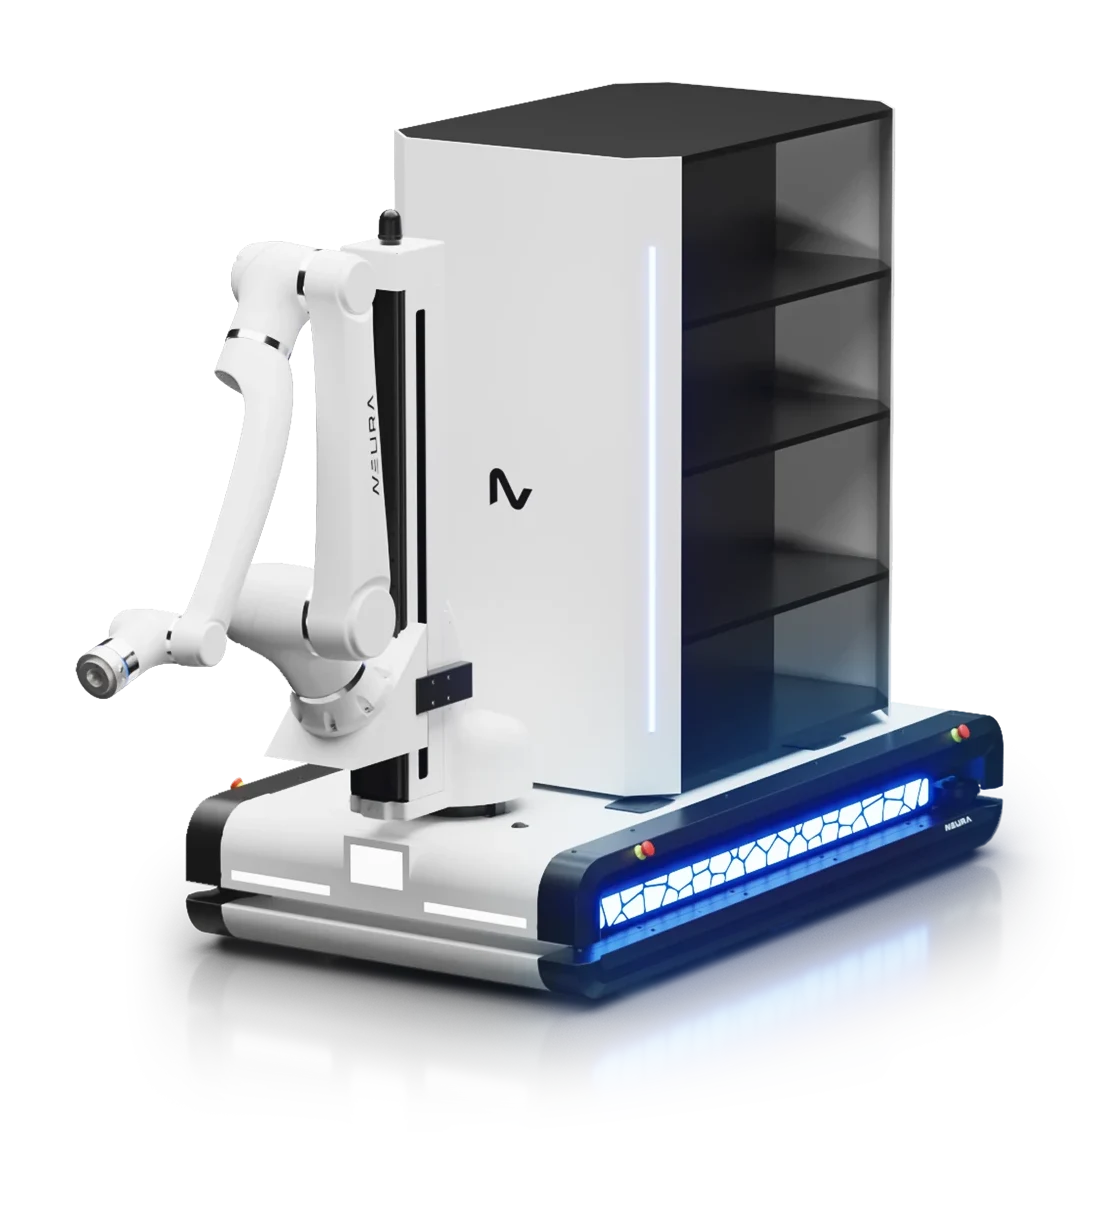
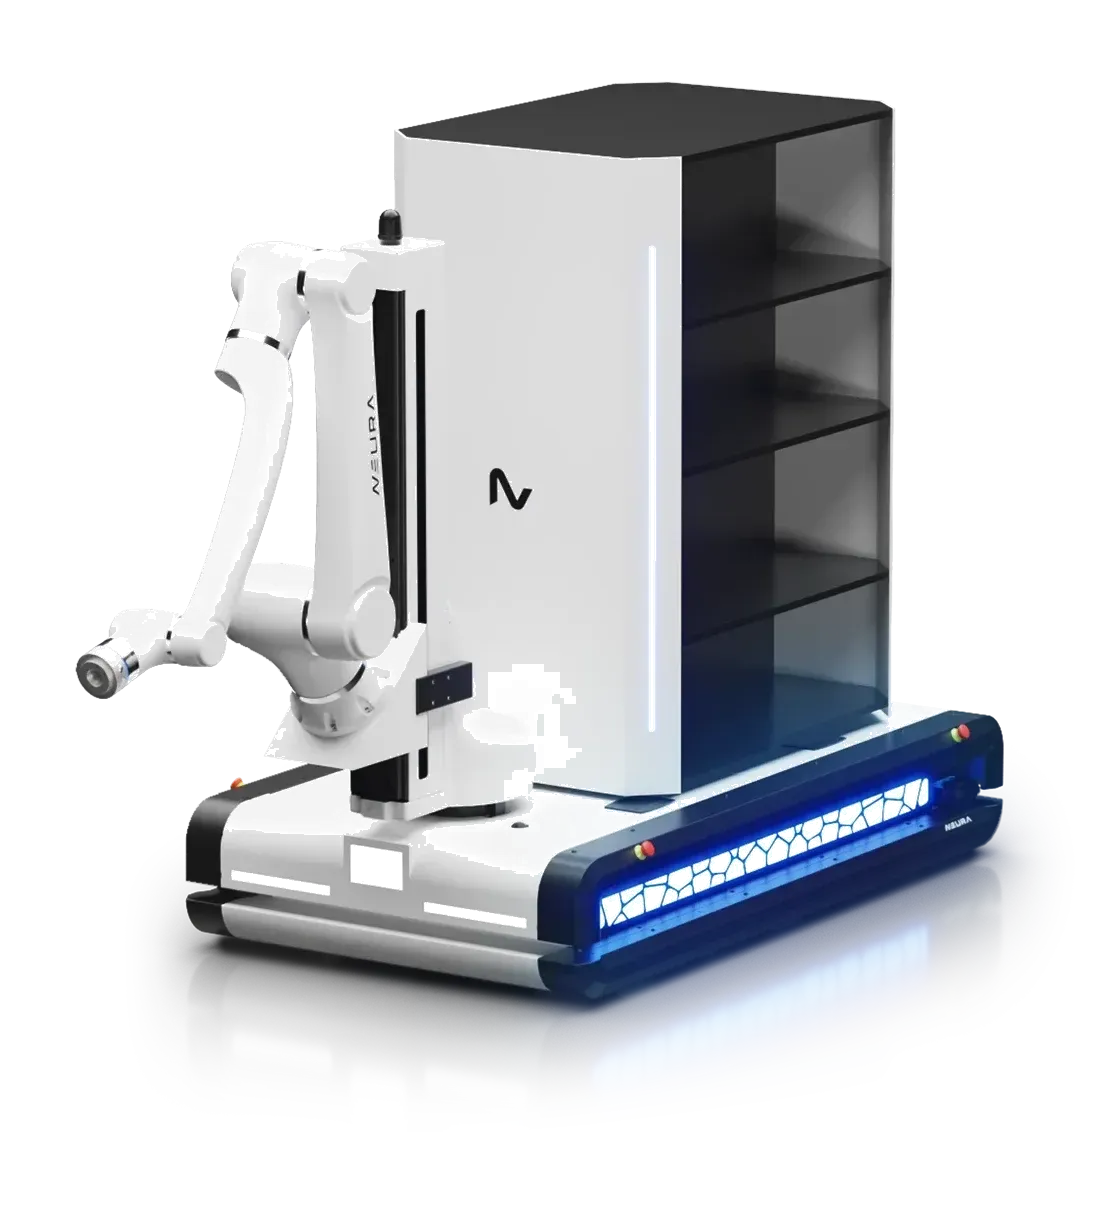
fix: immagini AMR senza bordo bianco, Youibot L300 e EP XP15
Flood-fill trasparenza, mix-blend su card, juno-plus e neura side corretti, L300 gallery, XP15 PNG.

Changed region(s): [[0.4296, 0.5486, 0.5217, 0.6705]]

diff --git a/prodotti/amr-l300.html b/prodotti/amr-l300.html
@@ -11,7 +11,7 @@
   <meta property="og:title" content="Youibot L300 — Robot AMR YOUIBOT | Abra Robotics">
   <meta property="og:description" content="Youibot L300: Latent AMR · 300 kg · lift 60 mm. da 29.988,00 € IVA esclusa. Va sotto carrelli e scaffali, solleva e trasporta in autonomia. Laser SLAM ±5 mm">
   <meta property="og:url" content="https://abrarobotics.com/prodotti/amr-l300.html">
-  <meta property="og:image" content="https://abrarobotics.com/images/manifattura/amr/youibot-l300.png">
+  <meta property="og:image" content="https://abrarobotics.com/images/manifattura/amr/youibot-l300-gallery.png">
   <meta property="og:site_name" content="Abra Robotics">
   <meta property="og:locale" content="it_IT">
   <meta property="product:price:amount" content="29988.00">
@@ -19,7 +19,7 @@
   <meta name="twitter:card" content="summary_large_image">
   <meta name="twitter:title" content="Youibot L300 — Robot AMR YOUIBOT | Abra Robotics">
   <meta name="twitter:description" content="Youibot L300: Latent AMR · 300 kg · lift 60 mm. da 29.988,00 € IVA esclusa. Va sotto carrelli e scaffali, solleva e trasporta in autonomia. Laser SLAM ±5 mm">
-  <meta name="twitter:image" content="https://abrarobotics.com/images/manifattura/amr/youibot-l300.png">
+  <meta name="twitter:image" content="https://abrarobotics.com/images/manifattura/amr/youibot-l300-gallery.png">
   <link href="https://api.fontshare.com/v2/css?f[]=satoshi@400,500,700,900&display=swap" rel="stylesheet">
   <link rel="stylesheet" href="../style.css">
   <link rel="stylesheet" href="product.css">
@@ -28,7 +28,7 @@
   "name": "Youibot L300",
   "sku": "amr-l300",
   "mpn": "amr-l300",
-  "image": ["https://abrarobotics.com/images/manifattura/amr/youibot-l300.png"],
+  "image": ["https://abrarobotics.com/images/manifattura/amr/youibot-l300-gallery.png"],
   "description": "Youibot L300: Latent AMR · 300 kg · lift 60 mm. da 29.988,00 € IVA esclusa. Va sotto carrelli e scaffali, solleva e trasporta in autonomia. Laser SLAM ±5 mm",
   "brand": {"@type": "Brand", "name": "YOUIBOT"},
   "category": "Business & Industrial > Material Handling",
@@ -135,8 +135,8 @@
       </nav>
       <div class="product-hero-grid">
         <div class="gallery">
-          <div class="gallery-main amr-gallery-main" style="background:linear-gradient(135deg,#ececef,#d8d8de);">
-            <img id="gallery-main-img" src="../images/manifattura/amr/youibot-l300.png" alt="Youibot L300" style="max-width:100%;max-height:480px;width:100%;object-fit:contain;padding:24px;filter:drop-shadow(0 12px 20px rgba(0,0,0,.12));">
+          <div class="gallery-main amr-gallery-main" style="background:linear-gradient(145deg,#e8e8ec,#d6d6dc);">
+            <img id="gallery-main-img" src="../images/manifattura/amr/youibot-l300-gallery.png" alt="Youibot L300" style="max-width:100%;max-height:480px;width:100%;object-fit:contain;padding:24px;filter:drop-shadow(0 12px 20px rgba(0,0,0,.12));mix-blend-mode:multiply;">
           </div>
         </div>
         <div class="product-info">

diff --git a/prodotti/amr-xp15.html b/prodotti/amr-xp15.html
@@ -11,7 +11,7 @@
   <meta property="og:title" content="EP Equipment XP15 — Robot AMR EP Equipment | Abra Robotics">
   <meta property="og:description" content="EP Equipment XP15: Transpallet AMR · 1.500 kg. da 30.000,00 € IVA esclusa. Muletto elettrico autonomo con forche. LiDAR + camera, anche in modalità manuale">
   <meta property="og:url" content="https://abrarobotics.com/prodotti/amr-xp15.html">
-  <meta property="og:image" content="https://abrarobotics.com/images/manifattura/amr/ep-xp15.jpg">
+  <meta property="og:image" content="https://abrarobotics.com/images/manifattura/amr/ep-xp15.png">
   <meta property="og:site_name" content="Abra Robotics">
   <meta property="og:locale" content="it_IT">
   <meta property="product:price:amount" content="30000.00">
@@ -19,7 +19,7 @@
   <meta name="twitter:card" content="summary_large_image">
   <meta name="twitter:title" content="EP Equipment XP15 — Robot AMR EP Equipment | Abra Robotics">
   <meta name="twitter:description" content="EP Equipment XP15: Transpallet AMR · 1.500 kg. da 30.000,00 € IVA esclusa. Muletto elettrico autonomo con forche. LiDAR + camera, anche in modalità manuale">
-  <meta name="twitter:image" content="https://abrarobotics.com/images/manifattura/amr/ep-xp15.jpg">
+  <meta name="twitter:image" content="https://abrarobotics.com/images/manifattura/amr/ep-xp15.png">
   <link href="https://api.fontshare.com/v2/css?f[]=satoshi@400,500,700,900&display=swap" rel="stylesheet">
   <link rel="stylesheet" href="../style.css">
   <link rel="stylesheet" href="product.css">
@@ -28,7 +28,7 @@
   "name": "EP Equipment XP15",
   "sku": "amr-xp15",
   "mpn": "amr-xp15",
-  "image": ["https://abrarobotics.com/images/manifattura/amr/ep-xp15.jpg"],
+  "image": ["https://abrarobotics.com/images/manifattura/amr/ep-xp15.png"],
   "description": "EP Equipment XP15: Transpallet AMR · 1.500 kg. da 30.000,00 € IVA esclusa. Muletto elettrico autonomo con forche. LiDAR + camera, anche in modalità manuale",
   "brand": {"@type": "Brand", "name": "EP Equipment"},
   "category": "Business & Industrial > Material Handling",
@@ -135,8 +135,8 @@
       </nav>
       <div class="product-hero-grid">
         <div class="gallery">
-          <div class="gallery-main amr-gallery-main" style="background:linear-gradient(135deg,#ececef,#d8d8de);">
-            <img id="gallery-main-img" src="../images/manifattura/amr/ep-xp15.jpg" alt="EP Equipment XP15" style="max-width:100%;max-height:480px;width:100%;object-fit:contain;padding:24px;filter:drop-shadow(0 12px 20px rgba(0,0,0,.12));">
+          <div class="gallery-main amr-gallery-main" style="background:linear-gradient(145deg,#e8e8ec,#d6d6dc);">
+            <img id="gallery-main-img" src="../images/manifattura/amr/ep-xp15.png" alt="EP Equipment XP15" style="max-width:100%;max-height:480px;width:100%;object-fit:contain;padding:24px;filter:drop-shadow(0 12px 20px rgba(0,0,0,.12));mix-blend-mode:multiply;">
           </div>
         </div>
         <div class="product-info">

diff --git a/catalogo-amr.html b/catalogo-amr.html
@@ -27,16 +27,21 @@
     .cat-jump { display: flex; flex-wrap: wrap; gap: 10px; margin-bottom: 32px; }
     .cat-jump a { font-size: 0.85rem; padding: 8px 14px; border: 1px solid var(--gray-200); border-radius: 999px; text-decoration: none; color: var(--black); }
     
+    .robot-media.amr-media,
+    .cat-media.amr-media {
+      background: linear-gradient(145deg, #e8e8ec 0%, #d6d6dc 100%);
+    }
     .robot-media.amr-media img,
     .robot-media.amr-media video,
     .cat-media.amr-media img,
     .cat-media.amr-media video {
       width: 100%; height: 100%; object-fit: contain; padding: 20px;
       filter: drop-shadow(0 12px 16px rgba(0,0,0,0.14));
+      mix-blend-mode: multiply;
     }
     .robot-media.amr-media video,
-    .cat-media.amr-media video { padding: 12px; }
-    .cat-media.amr-media { aspect-ratio: 4/3; display: flex; align-items: center; justify-content: center; background: var(--gray-50); }
+    .cat-media.amr-media video { padding: 12px; mix-blend-mode: normal; }
+    .cat-media.amr-media { aspect-ratio: 4/3; display: flex; align-items: center; justify-content: center; }
 
   </style>
 </head>
@@ -95,7 +100,7 @@
           </div>
         </article>
         <article class="cat-card" id="l300" data-group="leggeri" data-name="youibot l300">
-          <div class="cat-media amr-media"><img src="images/manifattura/amr/youibot-l300.png" alt="Youibot L300" loading="lazy"></div>
+          <div class="cat-media amr-media"><img src="images/manifattura/amr/youibot-l300-gallery.png" alt="Youibot L300" loading="lazy"></div>
           <div class="cat-body">
             <p class="cat-family">Pesi leggeri · Latent</p>
             <h3>Youibot L300</h3>
@@ -248,7 +253,7 @@
       <p class="cat-group-desc">Transpallet AMR per sostituire movimenti manuali con forche.</p>
       <div class="cat-grid">
         <article class="cat-card" id="xp15" data-group="muletti" data-name="ep equipment xp15">
-          <div class="cat-media amr-media"><img src="images/manifattura/amr/ep-xp15.jpg" alt="EP Equipment XP15" loading="lazy"></div>
+          <div class="cat-media amr-media"><img src="images/manifattura/amr/ep-xp15.png" alt="EP Equipment XP15" loading="lazy"></div>
           <div class="cat-body">
             <p class="cat-family">Muletto · AMR</p>
             <h3>EP Equipment XP15</h3>

diff --git a/manifattura-logistica.html b/manifattura-logistica.html
@@ -1230,7 +1230,7 @@
       <div class="robot-grid cols-3">
 
         <article class="robot-card" id="amr-l300">
-          <div class="robot-media amr-media"><span class="robot-media-tag">Pesi leggeri · Latent</span><img src="images/manifattura/amr/youibot-l300.png" alt="Youibot L300" loading="lazy" onerror="this.closest('.robot-media').classList.add('no-img');"><div class="robot-media-placeholder"><strong>Youibot</strong><span>Youibot L300</span></div></div>
+          <div class="robot-media amr-media"><span class="robot-media-tag">Pesi leggeri · Latent</span><img src="images/manifattura/amr/youibot-l300-gallery.png" alt="Youibot L300" loading="lazy" onerror="this.closest('.robot-media').classList.add('no-img');"><div class="robot-media-placeholder"><strong>Youibot</strong><span>Youibot L300</span></div></div>
           <div class="robot-body">
             <div><h3>Youibot L300</h3><p class="robot-subtitle">Latent AMR · 300 kg · lift 60 mm</p></div>
             <p class="robot-blurb">Va sotto carrelli e scaffali, solleva e trasporta in autonomia. Laser SLAM ±5 mm, YOUIFLEET, CE.</p>
@@ -1330,7 +1330,7 @@
           </div>
         </article>
         <article class="robot-card" id="amr-xp15">
-          <div class="robot-media amr-media"><span class="robot-media-tag">Muletto · AMR</span><img src="images/manifattura/amr/ep-xp15.jpg" alt="EP Equipment XP15" loading="lazy" onerror="this.closest('.robot-media').classList.add('no-img');"><div class="robot-media-placeholder"><strong>EP</strong><span>EP Equipment XP15</span></div></div>
+          <div class="robot-media amr-media"><span class="robot-media-tag">Muletto · AMR</span><img src="images/manifattura/amr/ep-xp15.png" alt="EP Equipment XP15" loading="lazy" onerror="this.closest('.robot-media').classList.add('no-img');"><div class="robot-media-placeholder"><strong>EP</strong><span>EP Equipment XP15</span></div></div>
           <div class="robot-body">
             <div><h3>EP Equipment XP15</h3><p class="robot-subtitle">Transpallet AMR · 1.500 kg</p></div>
             <p class="robot-blurb">Muletto elettrico autonomo con forche. LiDAR + camera, anche in modalità manuale.</p>

diff --git a/prodotti/amr-mir1350-base.html b/prodotti/amr-mir1350-base.html
@@ -135,8 +135,8 @@
       </nav>
       <div class="product-hero-grid">
         <div class="gallery">
-          <div class="gallery-main amr-gallery-main" style="background:linear-gradient(135deg,#ececef,#d8d8de);">
-            <video src="../images/manifattura/amr/mir1350-hero.mp4" poster="../images/manifattura/amr/mir1350-hero.png" autoplay loop muted playsinline style="max-width:100%;max-height:480px;width:100%;object-fit:contain;padding:24px;filter:drop-shadow(0 12px 20px rgba(0,0,0,.12));"></video>
+          <div class="gallery-main amr-gallery-main" style="background:linear-gradient(145deg,#e8e8ec,#d6d6dc);">
+            <video src="../images/manifattura/amr/mir1350-hero.mp4" poster="../images/manifattura/amr/mir1350-hero.png" autoplay loop muted playsinline style="max-width:100%;max-height:480px;width:100%;object-fit:contain;padding:24px;filter:drop-shadow(0 12px 20px rgba(0,0,0,.12));mix-blend-mode:multiply;"></video>
           </div>
         </div>
         <div class="product-info">

diff --git a/prodotti/amr-mir250-base.html b/prodotti/amr-mir250-base.html
@@ -135,8 +135,8 @@
       </nav>
       <div class="product-hero-grid">
         <div class="gallery">
-          <div class="gallery-main amr-gallery-main" style="background:linear-gradient(135deg,#ececef,#d8d8de);">
-            <video src="../images/manifattura/amr/mir250-hero.mp4" poster="../images/manifattura/amr/mir250-base.png" autoplay loop muted playsinline style="max-width:100%;max-height:480px;width:100%;object-fit:contain;padding:24px;filter:drop-shadow(0 12px 20px rgba(0,0,0,.12));"></video>
+          <div class="gallery-main amr-gallery-main" style="background:linear-gradient(145deg,#e8e8ec,#d6d6dc);">
+            <video src="../images/manifattura/amr/mir250-hero.mp4" poster="../images/manifattura/amr/mir250-base.png" autoplay loop muted playsinline style="max-width:100%;max-height:480px;width:100%;object-fit:contain;padding:24px;filter:drop-shadow(0 12px 20px rgba(0,0,0,.12));mix-blend-mode:multiply;"></video>
           </div>
         </div>
         <div class="product-info">

diff --git a/prodotti/amr-mir600-base.html b/prodotti/amr-mir600-base.html
@@ -135,8 +135,8 @@
       </nav>
       <div class="product-hero-grid">
         <div class="gallery">
-          <div class="gallery-main amr-gallery-main" style="background:linear-gradient(135deg,#ececef,#d8d8de);">
-            <video src="../images/manifattura/amr/mir600-hero.mp4" poster="../images/manifattura/amr/mir600-base.png" autoplay loop muted playsinline style="max-width:100%;max-height:480px;width:100%;object-fit:contain;padding:24px;filter:drop-shadow(0 12px 20px rgba(0,0,0,.12));"></video>
+          <div class="gallery-main amr-gallery-main" style="background:linear-gradient(145deg,#e8e8ec,#d6d6dc);">
+            <video src="../images/manifattura/amr/mir600-hero.mp4" poster="../images/manifattura/amr/mir600-base.png" autoplay loop muted playsinline style="max-width:100%;max-height:480px;width:100%;object-fit:contain;padding:24px;filter:drop-shadow(0 12px 20px rgba(0,0,0,.12));mix-blend-mode:multiply;"></video>
           </div>
         </div>
         <div class="product-info">

diff --git a/prodotti/amr-mav-lara.html b/prodotti/amr-mav-lara.html
@@ -135,8 +135,8 @@
       </nav>
       <div class="product-hero-grid">
         <div class="gallery">
-          <div class="gallery-main amr-gallery-main" style="background:linear-gradient(135deg,#ececef,#d8d8de);">
-            <img id="gallery-main-img" src="../images/manifattura/amr/neura-mav-1500-side.webp" alt="Neura MAV-1500 + LARA 5" style="max-width:100%;max-height:480px;width:100%;object-fit:contain;padding:24px;filter:drop-shadow(0 12px 20px rgba(0,0,0,.12));">
+          <div class="gallery-main amr-gallery-main" style="background:linear-gradient(145deg,#e8e8ec,#d6d6dc);">
+            <img id="gallery-main-img" src="../images/manifattura/amr/neura-mav-1500-side.webp" alt="Neura MAV-1500 + LARA 5" style="max-width:100%;max-height:480px;width:100%;object-fit:contain;padding:24px;filter:drop-shadow(0 12px 20px rgba(0,0,0,.12));mix-blend-mode:multiply;">
           </div>
         </div>
         <div class="product-info">

diff --git a/prodotti/amr-mir1200.html b/prodotti/amr-mir1200.html
@@ -135,8 +135,8 @@
       </nav>
       <div class="product-hero-grid">
         <div class="gallery">
-          <div class="gallery-main amr-gallery-main" style="background:linear-gradient(135deg,#ececef,#d8d8de);">
-            <img id="gallery-main-img" src="../images/manifattura/amr/mir1200-palletjack.png" alt="MiR1200 Pallet Jack EU" style="max-width:100%;max-height:480px;width:100%;object-fit:contain;padding:24px;filter:drop-shadow(0 12px 20px rgba(0,0,0,.12));">
+          <div class="gallery-main amr-gallery-main" style="background:linear-gradient(145deg,#e8e8ec,#d6d6dc);">
+            <img id="gallery-main-img" src="../images/manifattura/amr/mir1200-palletjack.png" alt="MiR1200 Pallet Jack EU" style="max-width:100%;max-height:480px;width:100%;object-fit:contain;padding:24px;filter:drop-shadow(0 12px 20px rgba(0,0,0,.12));mix-blend-mode:multiply;">
           </div>
         </div>
         <div class="product-info">

diff --git a/prodotti/amr-mav-1500.html b/prodotti/amr-mav-1500.html
@@ -135,8 +135,8 @@
       </nav>
       <div class="product-hero-grid">
         <div class="gallery">
-          <div class="gallery-main amr-gallery-main" style="background:linear-gradient(135deg,#ececef,#d8d8de);">
-            <img id="gallery-main-img" src="../images/manifattura/amr/neura-mav-1500.webp" alt="Neura Robotics MAV-1500" style="max-width:100%;max-height:480px;width:100%;object-fit:contain;padding:24px;filter:drop-shadow(0 12px 20px rgba(0,0,0,.12));">
+          <div class="gallery-main amr-gallery-main" style="background:linear-gradient(145deg,#e8e8ec,#d6d6dc);">
+            <img id="gallery-main-img" src="../images/manifattura/amr/neura-mav-1500.webp" alt="Neura Robotics MAV-1500" style="max-width:100%;max-height:480px;width:100%;object-fit:contain;padding:24px;filter:drop-shadow(0 12px 20px rgba(0,0,0,.12));mix-blend-mode:multiply;">
           </div>
         </div>
         <div class="product-info">

diff --git a/prodotti/amr-mir1350-pallet.html b/prodotti/amr-mir1350-pallet.html
@@ -135,8 +135,8 @@
       </nav>
       <div class="product-hero-grid">
         <div class="gallery">
-          <div class="gallery-main amr-gallery-main" style="background:linear-gradient(135deg,#ececef,#d8d8de);">
-            <img id="gallery-main-img" src="../images/manifattura/amr/mir1350-hero.png" alt="MiR1350 EU Pallet Lift" style="max-width:100%;max-height:480px;width:100%;object-fit:contain;padding:24px;filter:drop-shadow(0 12px 20px rgba(0,0,0,.12));">
+          <div class="gallery-main amr-gallery-main" style="background:linear-gradient(145deg,#e8e8ec,#d6d6dc);">
+            <img id="gallery-main-img" src="../images/manifattura/amr/mir1350-hero.png" alt="MiR1350 EU Pallet Lift" style="max-width:100%;max-height:480px;width:100%;object-fit:contain;padding:24px;filter:drop-shadow(0 12px 20px rgba(0,0,0,.12));mix-blend-mode:multiply;">
           </div>
         </div>
         <div class="product-info">

diff --git a/prodotti/amr-mir250-shelf.html b/prodotti/amr-mir250-shelf.html
@@ -135,8 +135,8 @@
       </nav>
       <div class="product-hero-grid">
         <div class="gallery">
-          <div class="gallery-main amr-gallery-main" style="background:linear-gradient(135deg,#ececef,#d8d8de);">
-            <img id="gallery-main-img" src="../images/manifattura/amr/mir250-shelf.png" alt="MiR250 Shelf Carrier" style="max-width:100%;max-height:480px;width:100%;object-fit:contain;padding:24px;filter:drop-shadow(0 12px 20px rgba(0,0,0,.12));">
+          <div class="gallery-main amr-gallery-main" style="background:linear-gradient(145deg,#e8e8ec,#d6d6dc);">
+            <img id="gallery-main-img" src="../images/manifattura/amr/mir250-shelf.png" alt="MiR250 Shelf Carrier" style="max-width:100%;max-height:480px;width:100%;object-fit:contain;padding:24px;filter:drop-shadow(0 12px 20px rgba(0,0,0,.12));mix-blend-mode:multiply;">
           </div>
         </div>
         <div class="product-info">
